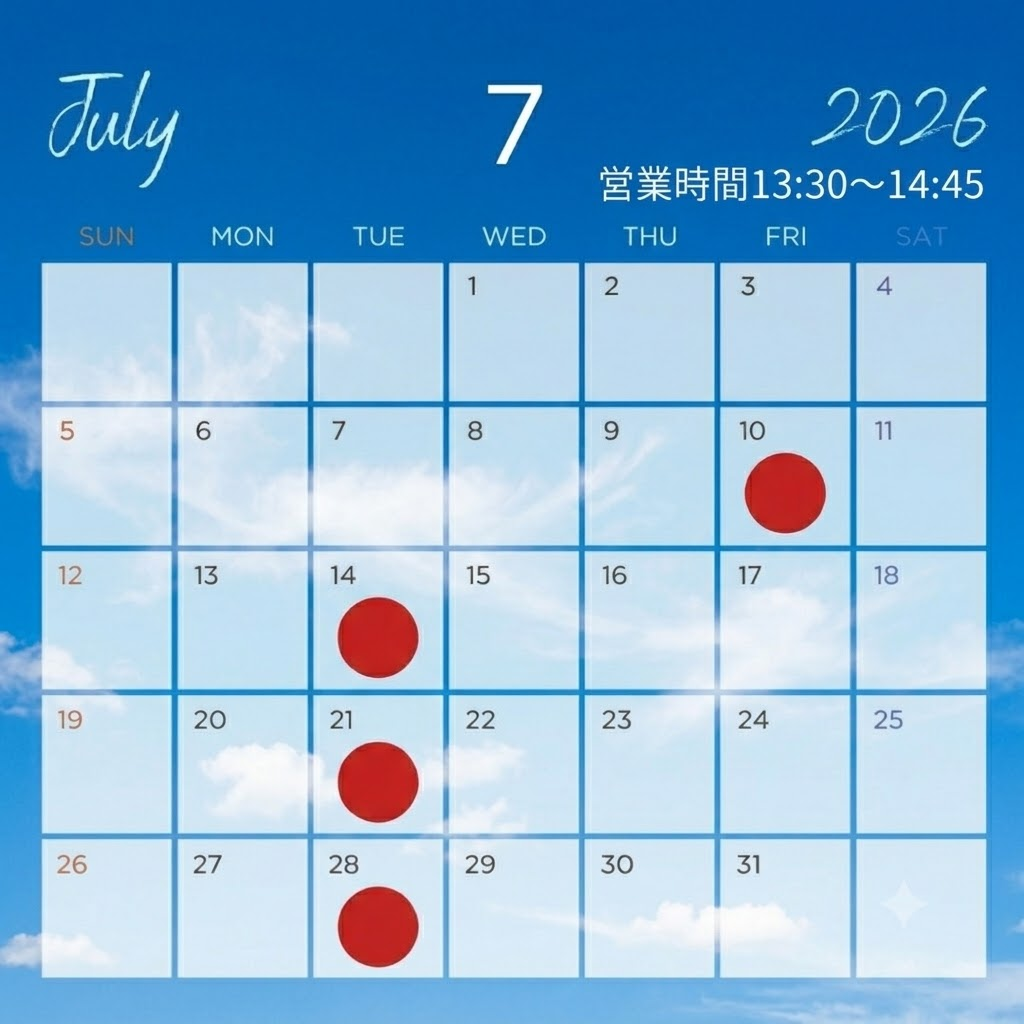
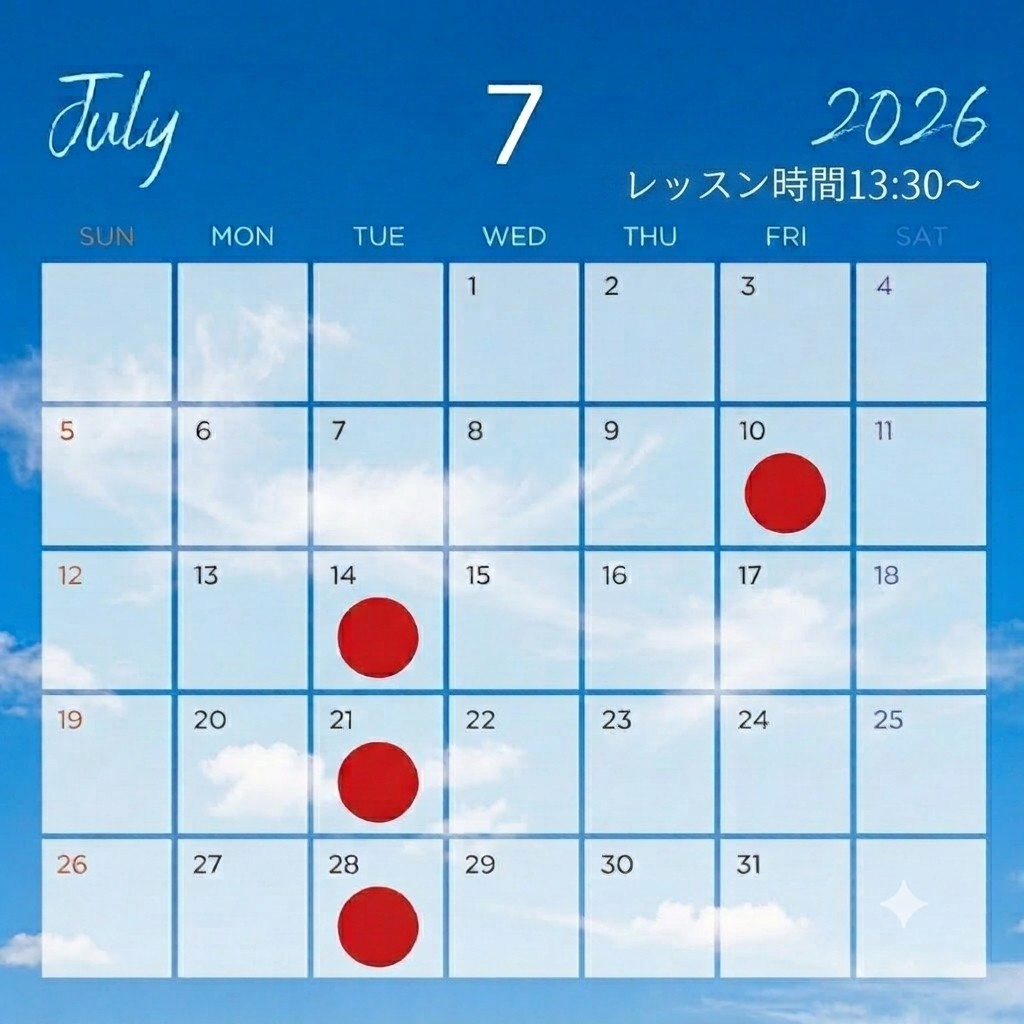
講師紹介修正

Changed region(s): [[0.5625, 0.1562, 0.9688, 0.2188]]

diff --git a/index.html b/index.html
@@ -280,12 +280,17 @@
                         </div>
                         <div class="col-md-6 text-start ps-md-5">
                             <h3 class="h4 fw-bold mb-3" style="color: #2c4a3e; letter-spacing: 0.05em;">赤木 美恵子</h3>
-                            <p class="text-muted mb-4" style="font-size: 0.9rem; letter-spacing: 0.1em;">ヨガインストラクター</p>
+                            <p class="text-muted mb-4" style="font-size: 0.9rem; letter-spacing: 0.1em;">ヨガインストラクター。認定ヨーガ療法士。</p>
                             <div class="lh-lg text-secondary" style="font-size: 1rem;">
-                                <p>2020年コロナ禍にヨガに出会い、ヨーガセラピー、アクティブヨガを始めました。<br>
-                                そのときに、自分の身体の心地よさを感じ、母にも教えたいと思い、本格的に勉強を開始。<br>
-                                家族や友人知人に教えながら、2022年にヨーガ教師の資格を取得。<br>
-                                2025年にヨーガ療法士の資格を取得し、もっとたくさんの人にヨガのよさ、楽しさを伝えたい、<br>
+                                <p>約10年前より軽い腰痛に悩まされ、寝ているだけでも痛みを感じる程になり、何か運動でも始めたいと思いながらもそのままにしていたところ、
+                                    2020年コロナ禍のある日、ヨーガセラピーと出会い、始めるきっかけになりました。
+                                    ヨーガセラピーは、驚いたことに、私が思っていたヨガと全く違っていたのです。
+                                    アクティブに身体を動かしてポーズを決めるのがヨガだと思っていたのですが、そうではなかったのです。<br>
+                                ヨーガセラピーは、呼吸に合わせてゆっくりと身体を動かすので、身体の中のホルモンバランス、自律神経を整えてくれるヨガなのです。<br>
+                                アイソメトリックを取り入れていますので、小さな質の良い筋肉が付くのです。
+                                腹筋、背筋、下半身にも筋肉が付き、身体が軽やかになってきます。
+                                このヨガなら母と一緒にできると思い、本格的に勉強を開始。
+                                家族や友人知人に教えながら、2025年にヨーガ療法士の資格を取得。もっとたくさんの人にヨガの瞑想で自分を知ることの楽しさを伝えたい、
                                心身ともに健康になっていく人を増やしたいと考えています。</p>
                             </div>
                         </div>
@@ -351,7 +356,7 @@
                         <h3 class="h4 fw-bold mb-3 mt-5" style="color: #2c4a3e;">
                             <i class="bi bi-calendar-event-fill me-2 text-success"></i>スケジュール
                         </h3>
-                        <p class="text-muted mb-4">毎週火曜日：13:30～14:45</p>
+                        <p class="text-muted mb-4">火曜日：13:30～14:45　金曜日：13:30～14:30</p>
                         
                         <div class="mb-5 p-3 bg-white rounded-4 shadow-sm border d-inline-block">
                             <img src="images/yoga.july.jpg" 